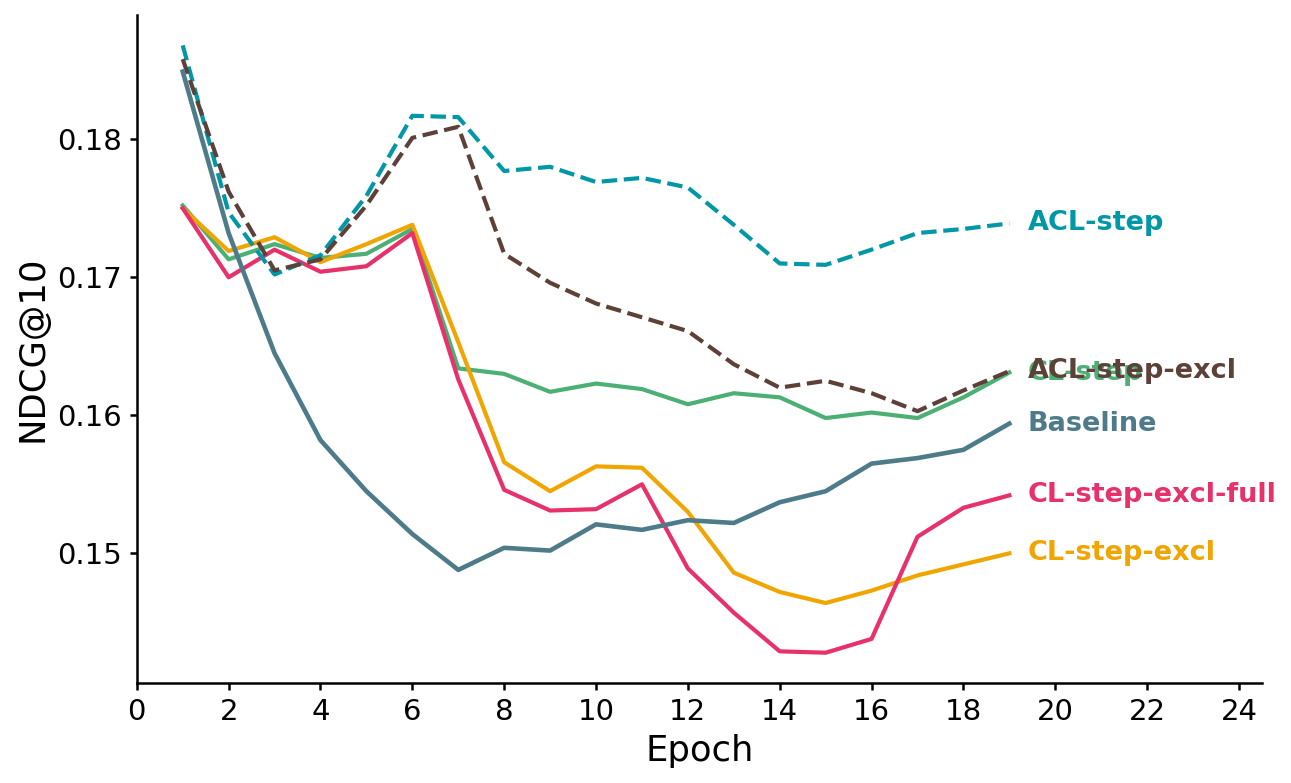
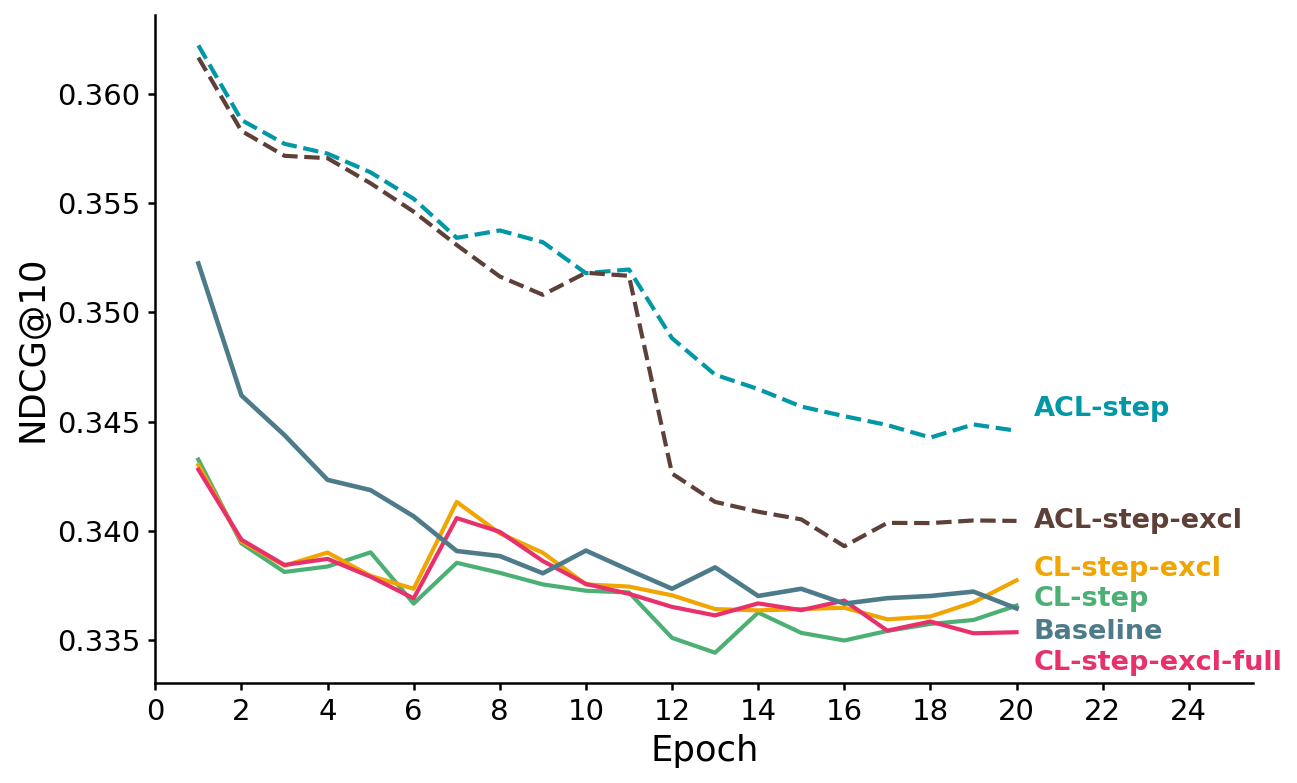
corrected instruct3 per-epoch TopiOCQA trajectories + regenerated Figure 4 (g,h)
figures/instruct3_qwen_topiocqa_per_epoch.json: all 160 instruct3
checkpoints re-evaluated offline under the proper v3 template
(eval_instruct3_qwen_topiocqa_per_epoch.py; the in-training values
were depressed ~7 NDCG@10 points by the template_version train/eval
mismatch fixed in 580302d).

True final-epoch TopiOCQA NDCG@10 (x100):
  nosched 46.73  cl_step 46.15  cl_step_excl 45.87
  cl_step_excl_2_full 46.71  cl_root2 45.73
  acl_root2 44.82  acl_step 44.05  acl_step_excl 43.41

vs the v1 instruct2 family (45.36-46.51): baseline and the CL family
match v1 within noise; the ACL family lands 1.5-2 pts lower -- a real
but mild effect, nothing like the fake 30.4-39.7 "collapse" the
in-training logs showed. Trajectory shape: baseline ramps to ~46-47
within 2 epochs; CL runs start at ~34.5 (small early-pacing subset),
jump to par at the T/3 stage transition (epoch 7); ACL runs start at
~44.6 and decline gently after mid-training.

Panels regenerated from the two offline JSONs (both metrics now
artifact-free); end-of-line labels hand-staggered to avoid collisions.

diff --git a/preprocess/plots/plot_qwen_instruct3_curves.py b/preprocess/plots/plot_qwen_instruct3_curves.py
@@ -182,18 +182,39 @@ def make_figure(metric_key, ylabel, out_path, y_offsets=None,
 # 6.  Generate the two panels (TopiOCQA + MSMARCO)
 # ---------------------------------------------------------------------------
 print("\nGenerating training_curves_qwen_instruct3.png …")
+# Final TopiOCQA values cluster tightly (Baseline 46.73, CL-step-excl-full
+# 46.71, CL-step 46.15, CL-step-excl 45.87) — fan the labels out vertically.
 make_figure(
     metric_key="topiocqa_ndcg10",
     ylabel="NDCG@10",
     out_path="/data/rech/huiyuche/continual_ir/figures/training_curves_qwen_instruct3.png",
+    y_offsets={
+        ("instruct3_qwen_nosched",             "topiocqa_ndcg10"): (0.4,  0.0077),
+        ("instruct3_qwen_cl_step_excl_2_full", "topiocqa_ndcg10"): (0.4,  0.0000),
+        ("instruct3_qwen_cl_step",             "topiocqa_ndcg10"): (0.4, -0.0025),
+        ("instruct3_qwen_cl_step_excl",        "topiocqa_ndcg10"): (0.4, -0.0077),
+        ("instruct3_qwen_acl_step",            "topiocqa_ndcg10"): (0.4,  0.0028),
+        ("instruct3_qwen_acl_step_excl",       "topiocqa_ndcg10"): (0.4,  0.0000),
+    },
     label_x_pad=0.4,
 )
 
 print("Generating training_curves_msmarco_qwen_instruct3.png …")
+# Final MSMARCO values: ACL-step 34.47, ACL-step-excl 34.03, CL-step-excl
+# 33.80, CL-step 33.67, Baseline 33.63, CL-step-excl-full 33.54 — the bottom
+# four are within 0.26 pt of each other; stagger them.
 make_figure(
     metric_key="msmarco_ndcg10",
     ylabel="NDCG@10",
     out_path="/data/rech/huiyuche/continual_ir/figures/training_curves_msmarco_qwen_instruct3.png",
+    y_offsets={
+        ("instruct3_qwen_acl_step",            "msmarco_ndcg10"): (0.4,  0.0010),
+        ("instruct3_qwen_acl_step_excl",       "msmarco_ndcg10"): (0.4,  0.0000),
+        ("instruct3_qwen_cl_step_excl",        "msmarco_ndcg10"): (0.4,  0.0005),
+        ("instruct3_qwen_cl_step",             "msmarco_ndcg10"): (0.4,  0.0003),
+        ("instruct3_qwen_nosched",             "msmarco_ndcg10"): (0.4, -0.0011),
+        ("instruct3_qwen_cl_step_excl_2_full", "msmarco_ndcg10"): (0.4, -0.0014),
+    },
     label_x_pad=0.4,
 )
 